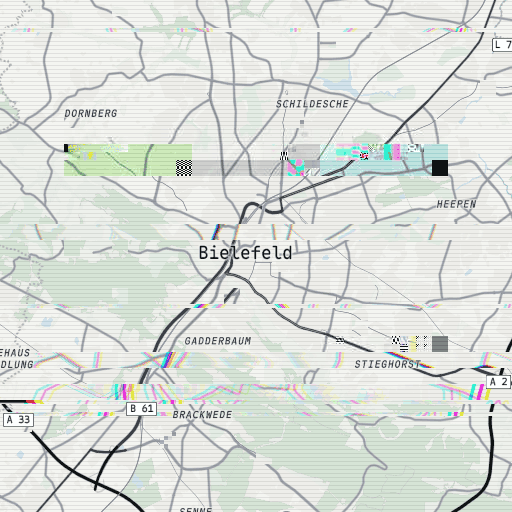
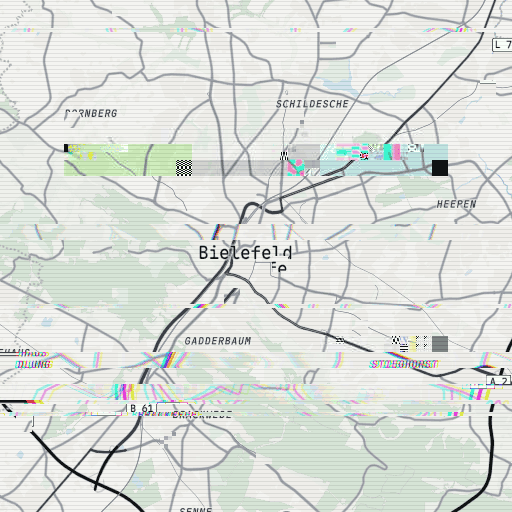
Glitch trifft auch die Beschriftung: Karte und Text in einem Durchgang
Claude-Session: https://claude.ai/code/session_01RwtuvHGS52eThsGS1pd6Lh

diff --git a/make-tiles.py b/make-tiles.py
@@ -1991,7 +1991,8 @@ def readme_previews(a, mb):
         post, holo = post_of(meta), meta.get("holo")
         if holo:
             style, bld = holo_split(style, "terrain" in holo)
-        if post or holo:  # Karte und Beschriftung getrennt, wie in render()
+        crisp = holo or (post and post[0] is not glitch)   # wie in render(): glitch trifft auch die Schrift
+        if crisp:  # Karte und Beschriftung getrennt, wie in render()
             style, labels = split_labels(style, shift=False)
         with tileserver(style, f"readme-{st.stem}", mb) as base:
             data = fetch(base + url)
@@ -2004,7 +2005,7 @@ def readme_previews(a, mb):
                     data = screen(data, wc_static(bimg, (terrain_light, dict(holo["terrain"], lat=a.lat)), 1, 13),
                                   holo["terrain"].get("blend"))
                 data = screen(data, wc_static(bimg, (holo_light, dict(holo, lat=a.lat)), 1, 13), holo.get("blend"))
-        if post or holo:
+        if crisp:
             with tileserver(labels, f"readme-{st.stem}-labels", mb) as base:
                 data = over(data, fetch(base + url))
         if meta.get("stains"):   # Flecken/Nordlicht wie in den Kacheln (Bild wie eine @2x-Kachel bei 0/0)
@@ -2039,7 +2040,9 @@ def render(a, style_file, out, mb, font=None, standalone=True, keep=False):
     holo = meta.get("holo")  # Hologramm: Gebäude als eigener Durchgang, holo_light() legt sie aufhellend über die Karte
     if holo:
         style, bld = holo_split(style, "terrain" in holo)
-    if a.pixel or wc or holo:  # Beschriftung getrennt rendern, dither_tiles()/over() backt sie ein
+    # Beschriftung scharf obenauf, außer bei glitch: dort trifft der Fehler auch die Schrift (Nutzerwunsch 2026-11-27)
+    crisp = holo or (wc and wc[0] is not glitch)
+    if a.pixel or crisp:  # Beschriftung getrennt rendern, dither_tiles()/over() backt sie ein
         style, labels = split_labels(style, shift=not (wc or holo))
     stains = meta.get("stains")  # Versuch: Flecken eingebacken
     colors = a.colors or meta.get("colors", 32)  # colors im Stil: weiche Verläufe (Lichthöfe) brauchen mehr als 32
@@ -2075,7 +2078,8 @@ def render(a, style_file, out, mb, font=None, standalone=True, keep=False):
             elif wc or holo:  # Gebäude, Beschriftung und pngquant erst in weiteren Durchgängen
                 if ext != "png":
                     sys.exit("watercolor/halftone/glitch/holo nur mit PNG")
-                f.write_bytes(wc_tile(base, z, x, y, sfx, wc) if wc else fetch(f"{base}/{z}/{x}/{y}{sfx}.png"))
+                data = wc_tile(base, z, x, y, sfx, wc) if wc else fetch(f"{base}/{z}/{x}/{y}{sfx}.png")
+                f.write_bytes(data if crisp else quantize(data, colors))
                 return f
             else:
                 data = fetch(f"{base}/{z}/{x}/{y}{sfx}.{ext}")
@@ -2110,7 +2114,7 @@ def render(a, style_file, out, mb, font=None, standalone=True, keep=False):
                         data = screen(data, wc_tile(base, *zxy(f), (terrain_light, holo["terrain"])), holo["terrain"].get("blend"))
                     f.write_bytes(screen(data, wc_tile(base, *zxy(f), (holo_light, holo)), holo.get("blend")))
                 list(pool.map(holo_tile, written))
-    if wc or holo:
+    if crisp:
         parent.cache_clear()
         with tileserver(labels, out.name + "-labels", mb) as base:
             def lab(f):

diff --git a/CLAUDE.md b/CLAUDE.md
@@ -185,7 +185,7 @@ There are no tests. To check a rendering change, re-render and look at a tile ne
   - **Holotisch** (`holotisch.toml`, draft, user request 2026-11-26 after a reference image of a holographic map table; own family next to Hologramm, nerd, order 95): blue light plate `#0b3558` with a tight cyan grid (pattern `holotisch`, two cells per 32 px), roads as a thin coral-red data network with glow (fixed `line-width` interpolations), minor roads dark blue, transit stops as white nodes with red ring (`[[layers]]` circle from `source-layer = "poi"`), only place labels (POIs, street names, shields, water labels hidden). Buildings use the same `holo` pass with `by = "height"` (colour gradient through `colors` by height up to `hmax` m, low blue/cyan and translucent, tall mint light columns), `fill_top` (fill more opaque towards the top and for tall buildings), `bloom`/`bloom_r` (soft glow), no aberration, almost no glitch. More transparent at the user's request (2026-11-27, so tall buildings visibly glow stronger towards the top): holo key `edge_low` (edge strength of the lowest slice relative to `edge`, rising linearly to the top; default 0.75 = old behaviour) = 0.2, `fill` 0.02 with `fill_top` 9, `bloom` 0.4. Not irisierend on purpose; Hologramm keeps the iridescent look. Light partner `holotisch-tag` ("Holotisch Tag", working title, draft 2026-11-27): pale blue-grey table `#e3edf5`, coral network without glow, faint node halo, buildings as tinted glass via `blend = "folie"` with a darker, saturated height ramp (Holotisch's mint would vanish as a filter). Same transparency as Holotisch: `edge_low = 0.2`, `fill` 0.033, `fill_top` 9.
     - Terrain grid (user request 2026-11-27, both Holotisch styles; replaces the `holotisch` background pattern): `[holo.terrain] = { blend, color, cell, width, glow, glow_width, scale, max_px, angle, relief_m, fade, pad_m, dem_zoom }` → `terrain_light()`/`terrain_grid()`, its own `wc_tile()` post on the building pass (neighbours come from the `parent()` cache), composited onto the map before the building light with its own `blend` (user request 2026-11-27): `"screen"` (light on black; Holotisch) or `"overlay"` (layer on neutral grey 0.5, keeps the map's hue; Holotisch Tag, because screen can only lighten and vanished on the pale table). A world-anchored square grid (`cell` world px, screen-constant like the old pattern), each line shifted up by the relief (`relief()`: Terrarium DEM at `dem_zoom` 12 minus its Gaussian blur over `relief_m`, so only hills/valleys count) × `scale` world px per metre, capped at `max_px` (keep below the 64 world px tile margin), drawn 2× supersampled with PIL. Flat on built-up land: `holo_split(style, terrain=True)` adds layer `bebaut` (OMT landuse classes `BEBAUT`) in blue under the buildings in the building pass; buildings are padded by `pad_m`, the mask blurred by `fade` world px (≤ 24, tile margin), so the city with its buildings does not get busier (user). No grid under building footprints. DEM: Terrain Tiles on AWS Open Data (`TERRAIN_URL`), cached in `data/terrain/<z>/<x>/<y>.png` by `dem_tile()`; tifffile is not installed, hence Terrarium PNGs instead of Copernicus GeoTIFFs. Their attribution (Copernicus EU-DEM, USGS SRTM/GMTED2010) is in both styles' `attribution`, so it reaches the Über dialog. README previews (`wc_static`, no world position) draw the grid flat. Irregularity (user request 2026-11-27, "Differenz-Wolken", references: a particle grid and a grid with glowing nodes): `clouds`/`cloud_scale`/`cloud_gain` modulate coverage by |fbm1 − fbm2| at world coordinates (vein-like gaps), `sparkle` breaks lines into specks where coverage is low and adds particles in the glow, `seg_low`/`lit` give each segment between two nodes a random brightness (a share fully lit with a doubled glow), `nodes`/`node_glow` put a four-point star on every intersection (`star_kernel()`, after the user's template star-grid-corner.svg: two tapering rays along the grid axes plus a small core; a share `nodes` large with radius `star_r` world px, the rest at 35 %), stamped via `fftconvolve` as its own layer in `star_color` (screen: lightened over the grid; overlay: normal over it), because in the grid colour the rays lying on the lines were never brighter than the lines, `cells`/`cell_fill` fill a few cells faintly; all via `ihash()` on integer grid indices, so seamless. All default off; Holotisch Tag uses `clouds = 0.6` instead of 0.85 because overlay on the pale table is faint anyway. One `relief()` call for all line samples (per-line calls rebuilt the DEM mosaic each time).
   - **Cyberspace** (`cyberspace.toml`, working title, draft, user request 2026-11-27: "the best of Holotisch and Hologramm, seasoned with Neuromancer and Snow Crash"; nerd, dark, own family, order 94): only motifs, never book titles, characters or quotes in names, titles or attribution. Holotisch's terrain grid (clouds, particles, nodes; flat in the city) and height-coloured buildings (violet → blue → cyan → ice white up to `hmax` 40 m, `edge_low` 0.25, `fill_top`, bloom), Hologramm's glitch and half aberration; near-black ground with TV static (terrain key `static`: per-pixel `ihash()` grain³ at world coordinates, in the grid colour) and `overlay = "crt"`; major roads as a magenta neon "street" with glow and neon major road names, railways as a bright cyan monorail, transit stops as white nodes with magenta ring; only place labels besides that. Must stay distinct from Bluecron (petrol, wireframe roofs) and Neon Cyberpunk (no building volumes). Light partner `cyberspace-hell` ("Cyberspace Hell", draft 2026-11-27, "the best of Holotisch Tag, Hologrammfolie and Cyberspace"): pearl-violet ground `#ecebf3`, terrain grid in overlay (dark `#000a3a`, width 0.9, glow 0.35, black stars, `clouds` 0.6, `static` 0.06), buildings as `blend = "folie"` filter by height in saturated foil colours violet → blue → cyan → teal (pink at the low end turned the many low houses garish), `edge` 0.5, `edge_low` 0.25, half aberration, no bloom, softened edges via holo key `soft` = 0.35 (user 2026-11-27: Gaussian blur in world px at the end of `holo_light()`, after aberration and glitch, so it also softens the colour fringes; unlike `bloom` it does not lighten, so the folie filter stays saturated; 0.7 looked out of focus); magenta neon street without glow, petrol monorail, no CRT overlay (belongs to a dark screen). Overlay can darken the pale ground only a little, so the grid stays subtle. Checked seamless at tile corners around Johannisberg/Teutoburger Wald (z15).
-  - **Glitch** (user request 2026-11-27, nerd, order 93): `signalverlust` (dark: near-black screen, cold white roads, signal-green POIs, neon blocks) / `datamosh` (light: plain paper map, ink roads, no neon blocks, they looked like confetti on white). Style key `glitch = { strips, strip_cells, copy, mush, neon, neon_p, bands, shift, aberration, sort, scan }` → `glitch()` via `post_of()`/`wc_tile()`, labels crisp on top. Stages in this order: A. JPEG strips (user asked for JPG/MP4 artefacts after snorpey's jpg-glitch): each strip is really JPEG-encoded, 1–3 scan bytes flipped (never 0xFF), decoded, re-rolled up to 4× if the change is invisible; strip grid 128 world px wide offset 64 from the tile grid, row blocks 64 high, so every strip touching a tile lies wholly inside the image and both neighbours compute it identically. B. macroblocks (16 world px: copy ±2 blocks, pixelate, neon). C. bands (4/16 high, 512 wide) shifted with RGB split. D. pixel sorting. E. scanlines. Reach A 0 + B 32 + C ≤ 80 world px, so `wc_tile()` uses a 3/4-tile margin for glitch (1/4 for the others); keep the budget when raising `shift`/`aberration`. 72/86 s for 154 z16 retina tiles (dangerzone).
+  - **Glitch** (user request 2026-11-27, nerd, order 93): `signalverlust` (dark: near-black screen, cold white roads, signal-green POIs, neon blocks) / `datamosh` (light: plain paper map, ink roads, no neon blocks, they looked like confetti on white). Style key `glitch = { strips, strip_cells, copy, mush, neon, neon_p, bands, shift, aberration, sort, scan }` → `glitch()` via `post_of()`/`wc_tile()`. Unlike watercolor/halftone/holo the labels are not split off: map and labels render in one pass and get glitched together (user request 2026-11-27; `crisp` in `render()`/`readme_previews()`), then pngquant in `get()`. Stages in this order: A. JPEG strips (user asked for JPG/MP4 artefacts after snorpey's jpg-glitch): each strip is really JPEG-encoded, 1–3 scan bytes flipped (never 0xFF), decoded, re-rolled up to 4× if the change is invisible; strip grid 128 world px wide offset 64 from the tile grid, row blocks 64 high, so every strip touching a tile lies wholly inside the image and both neighbours compute it identically. B. macroblocks (16 world px: copy ±2 blocks, pixelate, neon). C. bands (4/16 high, 512 wide) shifted with RGB split. D. pixel sorting. E. scanlines. Reach A 0 + B 32 + C ≤ 80 world px, so `wc_tile()` uses a 3/4-tile margin for glitch (1/4 for the others); keep the budget when raising `shift`/`aberration`. 72/86 s for 154 z16 retina tiles (dangerzone).
   - **Nerd** (editor-theme palettes): `dayfox`/`nightfox`, `catppuccin-latte`/`-mocha`, `dracula-light` ("Alucard", the official Dracula light palette) / `dracula`, `solarized-light`/`-dark`, `gruvbox-light`/`-dark`, `everforest-light`/`-dark`, `one-light`/`-dark` (Atom One) (all MIT), and `tokyonight-day`/`-night` (Apache-2.0).
 - For the recreations, only colour values were taken from the originals, never their style files. That is what the user asked for, to avoid licence problems, and each recreation names its inspiration in `attribution`.
 - Dark and editor-theme styles share one role mapping: bg, landuse, buildings, water, green, three road tiers, text.

diff --git a/README.md b/README.md
@@ -380,7 +380,7 @@ Eigener Entwurf (Arbeitstitel) im Look von Tron Legacy, Schrift Mozilla Text.
 
 #### Datamosh / Signalverlust
 
-Eigener Entwurf (Familie Glitch), Schrift Fira Code. Die Fehler werden als Pixel-Nachbearbeitung in die Kacheln eingerechnet (`[glitch]` im Stil), die Beschriftung liegt scharf obenauf.
+Eigener Entwurf (Familie Glitch), Schrift Fira Code. Die Fehler werden als Pixel-Nachbearbeitung in die Kacheln eingerechnet (`[glitch]` im Stil) und treffen auch die Beschriftung.
 
 - **Signalverlust** (dunkel): fast schwarzer Bildschirm, Straßen in kaltem Weiß, POIs in Signalgrün, einzelne Neonblöcke.
 - **Datamosh** (hell): nüchterne helle Karte, Straßen in Tinte, ohne Neonblöcke.
